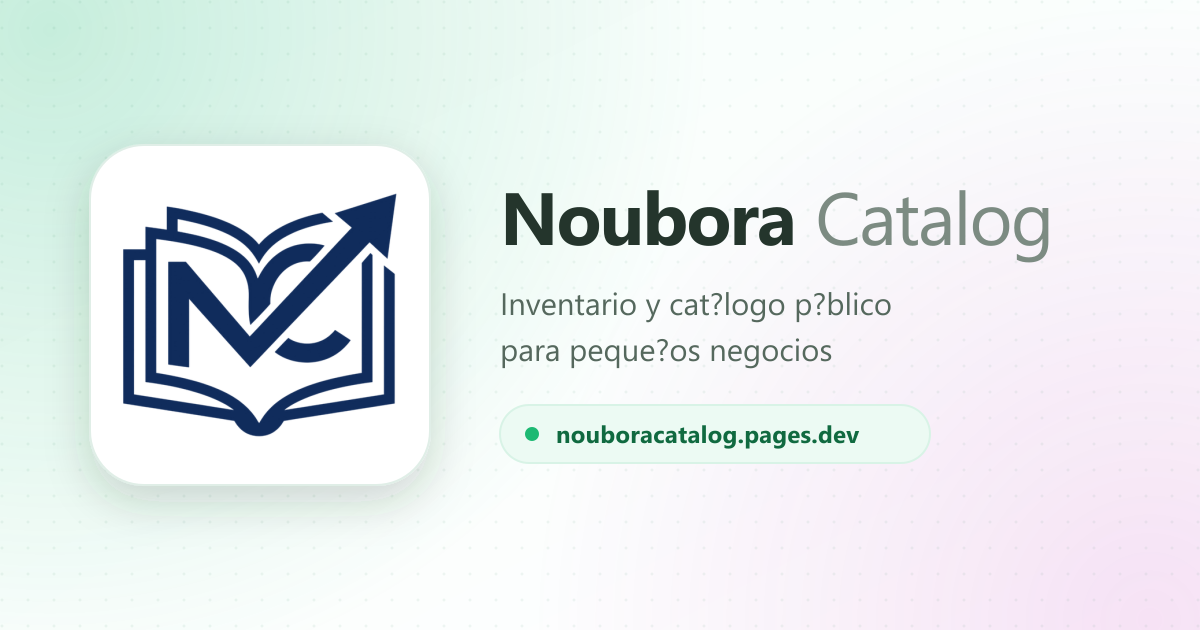
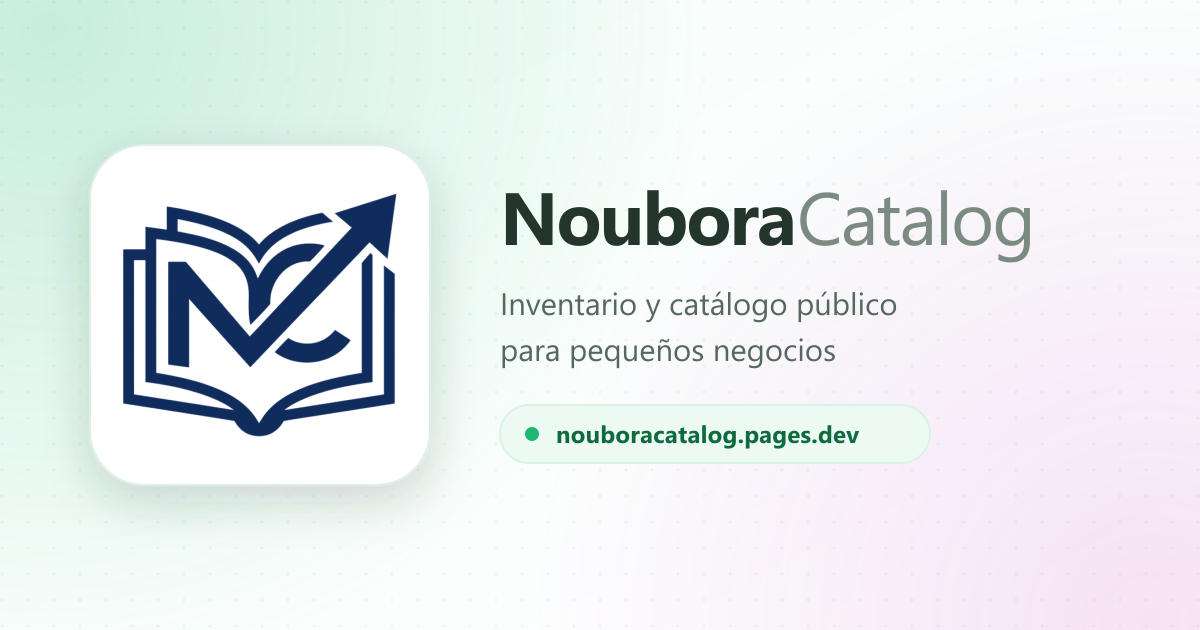
Corrige acentos y une NouboraCatalog en la imagen OG
La generacion anterior recibia los acentos convertidos a '?' por la consola; ahora se usan escapes Unicode. Tambien se quita el espacio del nombre y se versiona la URL de la imagen.

Changed region(s): [[0.6475, 0.3016, 0.8942, 0.4222], [0.5858, 0.4524, 0.74, 0.5127], [0.5242, 0.5429, 0.7092, 0.6032]]

diff --git a/index.html b/index.html
@@ -25,7 +25,7 @@
     <meta property="og:url" content="https://nouboracatalog.pages.dev/" />
     <meta property="og:title" content="Noubora Catalog — Inventario y catálogo para tu negocio" />
     <meta property="og:description" content="Organiza productos, existencias y movimientos de tu negocio y comparte un catálogo público con un solo enlace." />
-    <meta property="og:image" content="https://nouboracatalog.pages.dev/og-image.png" />
+    <meta property="og:image" content="https://nouboracatalog.pages.dev/og-image.png?v=2" />
     <meta property="og:image:type" content="image/png" />
     <meta property="og:image:width" content="1200" />
     <meta property="og:image:height" content="630" />
@@ -34,7 +34,7 @@
     <meta name="twitter:card" content="summary_large_image" />
     <meta name="twitter:title" content="Noubora Catalog — Inventario y catálogo para tu negocio" />
     <meta name="twitter:description" content="Organiza productos, existencias y movimientos de tu negocio y comparte un catálogo público con un solo enlace." />
-    <meta name="twitter:image" content="https://nouboracatalog.pages.dev/og-image.png" />
+    <meta name="twitter:image" content="https://nouboracatalog.pages.dev/og-image.png?v=2" />
   </head>
   <body>
     <div id="root"></div>
